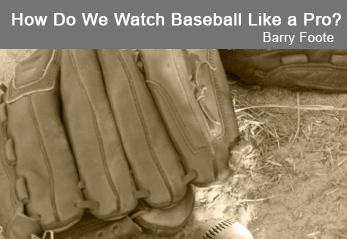
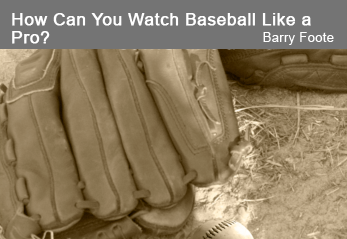
Edit about text, course list details, index text

Changed region(s): [[0.1441, 0.0293, 1.0, 0.1172], [0.0288, 0.1172, 0.1441, 0.205]]

diff --git a/main/templates/about.html b/main/templates/about.html
@@ -12,15 +12,14 @@
         	<br />
             <div id="aboutmain">
                 <h2>About 3 Nights and Done</h2>
-                <h3>3ND stands for "3 Nights and Done."</h3>
     
                 <p>It's free. It's non-profit. It won't sell your student activity records. It makes learning fun for people of all ages.</p>
                 
                 <p>You watch 1 hour of educational material each night, and in 3 nights' time it's done. Simple as that. You will get a sense of accomplishment instantly over say a weekend.</p>
                 
-                <p>What can you learn in 3 nights? A lot! All our 3ND units are practical questions that you want to know the answers for, ranging from how the Internet works to how hair grows on heads, from how to finance a startup to how to watch baseball games like a pro.</p>
+                <p>What can you learn in 3 nights? A lot! All our 3ND courses are practical questions that you want to know the answers for, ranging from how the Internet works to how hair grows on heads, from how to finance a startup to how to watch baseball games like a pro.</p>
                 
-                <p>We have:
+                <p>You will get:
                     <ol>
                         <li>video lectures by the most articulate world-renowned experts who donated their time to this non-profit education charity, all in 10-15 minute modules </li>
                         <li>instant feedback through a multiple choice question at the end of each module</li>
@@ -28,17 +27,21 @@
                     </ol>
                 </p>
                 
-                <p>If you can answer 80% or more of the multiple choice quiz questions (you have two attempts at each question), you will also receive a signed Certificate of Completion.</p>
+                <p>If you can answer 80% or more of the multiple choice quiz questions, you will also receive an instructor-signed Certificate of Completion.</p>
                 
-                <p>If you contribute to the forum and wiki actively, you will get a share of the sales revenue when that 3ND content gets packaged into a digital book that will sell for $1.99 as a tablet app.</p>
+                <p>So, if you're wondering, 
+                	<ul>
+                    	<li>"How can we make online learning completion rate higher?"</li> 
+                        <li>"Why must online courses be based on university calendars in a semester-long format?"</li>
+                        <li>"Why must knowledge be packaged in courses of weeks and months and start with a textbook?" </li>
+                    </ul>
+                   then join 3ND today and discover the joy of learning something fun, one weekend at a time.</p>
                 
-                <p>So, if you're wondering, "How can we make online learning completion rate higher?" or "Why must online courses be based on university calendars in a semester-long format?" or "Why must knowledge be packaged in units of weeks and months and start with a textbook?" then join 3ND today and discover the joy of learning something fun, one weekend at a time.</p>
+                <p>Each 3ND is about the length of a long movie, but there's no charge for tickets or popcorn. Like movies, however, we release a couple of new courses each Thursday, so that you can pick that up right here for your Friday, Saturday, and Sunday evenings. Or any other day. We start with 4 courses on January 2013, and many more to come throughout its launching year.</p>
                 
-                <p>Each 3ND is about the length of a long movie, but there's a fee for tickets or popcorn. Like movies, however, we release a couple of new units each Thursday, so that you can pick that up right here for your Friday, Saturday, and Sunday evenings. Or any other day. We start with 4 units on January 3, 2013, and many more to come throughout its launching year.</p>
+                <!--<p>You can vote to create new courses on your favorite topics, too! Just hit the vote button on the homepage.</p>
                 
-                <p>You can vote to create new units on your favorite topics, too! Just hit the vote button on the homepage.</p>
-                
-                <p>Cool features, like virtual office hours and study-buddy recommendations, will be coming to the 3ND platform soon as well.</p>
+                <p>Cool features, like virtual office hours and study-buddy recommendations, will be coming to the 3ND platform soon as well.</p>-->
                 
                 <p>So sit back, relax, and enjoy! Before you get to say "This is too much for me," you'll say, "I can do this!"</p>
             </div>

diff --git a/main/templates/index.html b/main/templates/index.html
@@ -7,11 +7,11 @@
         	<h2>About 3 Nights and Done</h2>
                 <h3>3ND stands for "3 Nights and Done."</h3>
     
-                <p>It's free. It's non-profit. It won't sell your student activity records. It makes learning fun for people of all ages.</p>
+                <p>It's free. It's non-profit. It makes learning fun for people of all ages.</p>
                 
                 <p>You watch 1 hour of educational material each night, and in 3 nights' time it's done. Simple as that. You will get a sense of accomplishment instantly over, say, a weekend.</p>
                 
-                <p>What can you learn in 3 nights? A lot! All our 3ND units are practical questions that you want to know the answers for, ranging from how the Internet works to how hair grows on heads, from how to finance a startup to how to watch baseball games like a pro.</p><br />
+                <p>What can you learn in 3 nights? A lot! All our 3ND courses are practical questions that you want to know the answers for, ranging from how the Internet works to how hair grows on heads, from how to finance a startup to how to watch baseball games like a pro.</p><br />
             <p style="text-align: right;"><a href="/about/" class="button orange">Learn More</a></p>
             <br /><br />
             <p style="text-align: center;"><img src="{{ STATIC_URL }}images/flowchart.png" /></p>
@@ -66,9 +66,9 @@
                   
                 </div>       
                     <br /><br />
-                    <p style="text-align: right;"><a href="/courselist/" class="button grey">View Course List</a></p>
-                    <br />
-                    <p style="text-align: right;"><a href="/contact/" class="button grey">Suggestions</a></p>
+                    <p style="text-align: right;"><a href="/courselist/" class="button orange">View Course List</a></p>
+                    <!--<br />
+                    <p style="text-align: right;"><a href="/contact/" class="button grey">Suggestions</a></p>-->
                     <br /><br />
            </div> 
         </div>

diff --git a/main/templates/courselist.html b/main/templates/courselist.html
@@ -26,7 +26,7 @@
             </tr>
         	<tr>
             	<td><a href="/course/cambroncourseinfo/">How Does the Internet Work?</a></td>
-                <td>G. Keith Cambron (former CEO, AT&T Labs)</td>
+                <td>G. Keith Cambron (former President & CEO, AT&T Labs)</td>
                 <td data-date="01-24-2013">January 24, 2013</td>
                 <td><a class="addbutton blue" href="/users/addcourse/2?next=/users/currentlessons/">Add Course</a></td>
                 <td data-date="01-24-2013" month="1">January 24, 2013</td>
@@ -40,14 +40,14 @@
             </tr>
             <tr>
             	<td><a href="/course/foxcourseinfo/">How Does Venture Finance Work?</a></td>
-                <td>Richard M. Fox (MD, Cross Atlantic Capital Partners)</td>
+                <td>Richard M. Fox (Managing Director, Cross Atlantic Capital)</td>
                 <td data-date="01-24-2013">January 24, 2013</td>
                 <td><a class="addbutton blue" href="/users/addcourse/3?next=/users/currentlessons/">Add Course</a></td>
                 <td data-date="01-24-2013" month="1">January 24, 2013</td>
                 <td><a class="addbutton blue" href="#">Add Course</a></td>
             </tr>
             <tr>
-            	<td>How Do We Watch Baseball Like a Pro?</td>
+            	<td>How Can You Watch Baseball Like a Pro?</td>
                 <td>Barry Foote (former baseball star)</td>
                 <td data-date="01-31-2013" month="1">January 31, 2013</td>
                 <td><a class="addbutton blue" href="#">Add Course</a></td>

diff --git a/static/javascript.js b/static/javascript.js
@@ -15,7 +15,7 @@ $(document).ready(function() {
 	
 		(function cycle() { 
 			divs.eq(i).effect("slide")
-					  .delay(8000)
+					  .delay(6000)
 					  .show(0)
 					  .hide(0, cycle)
 					  
